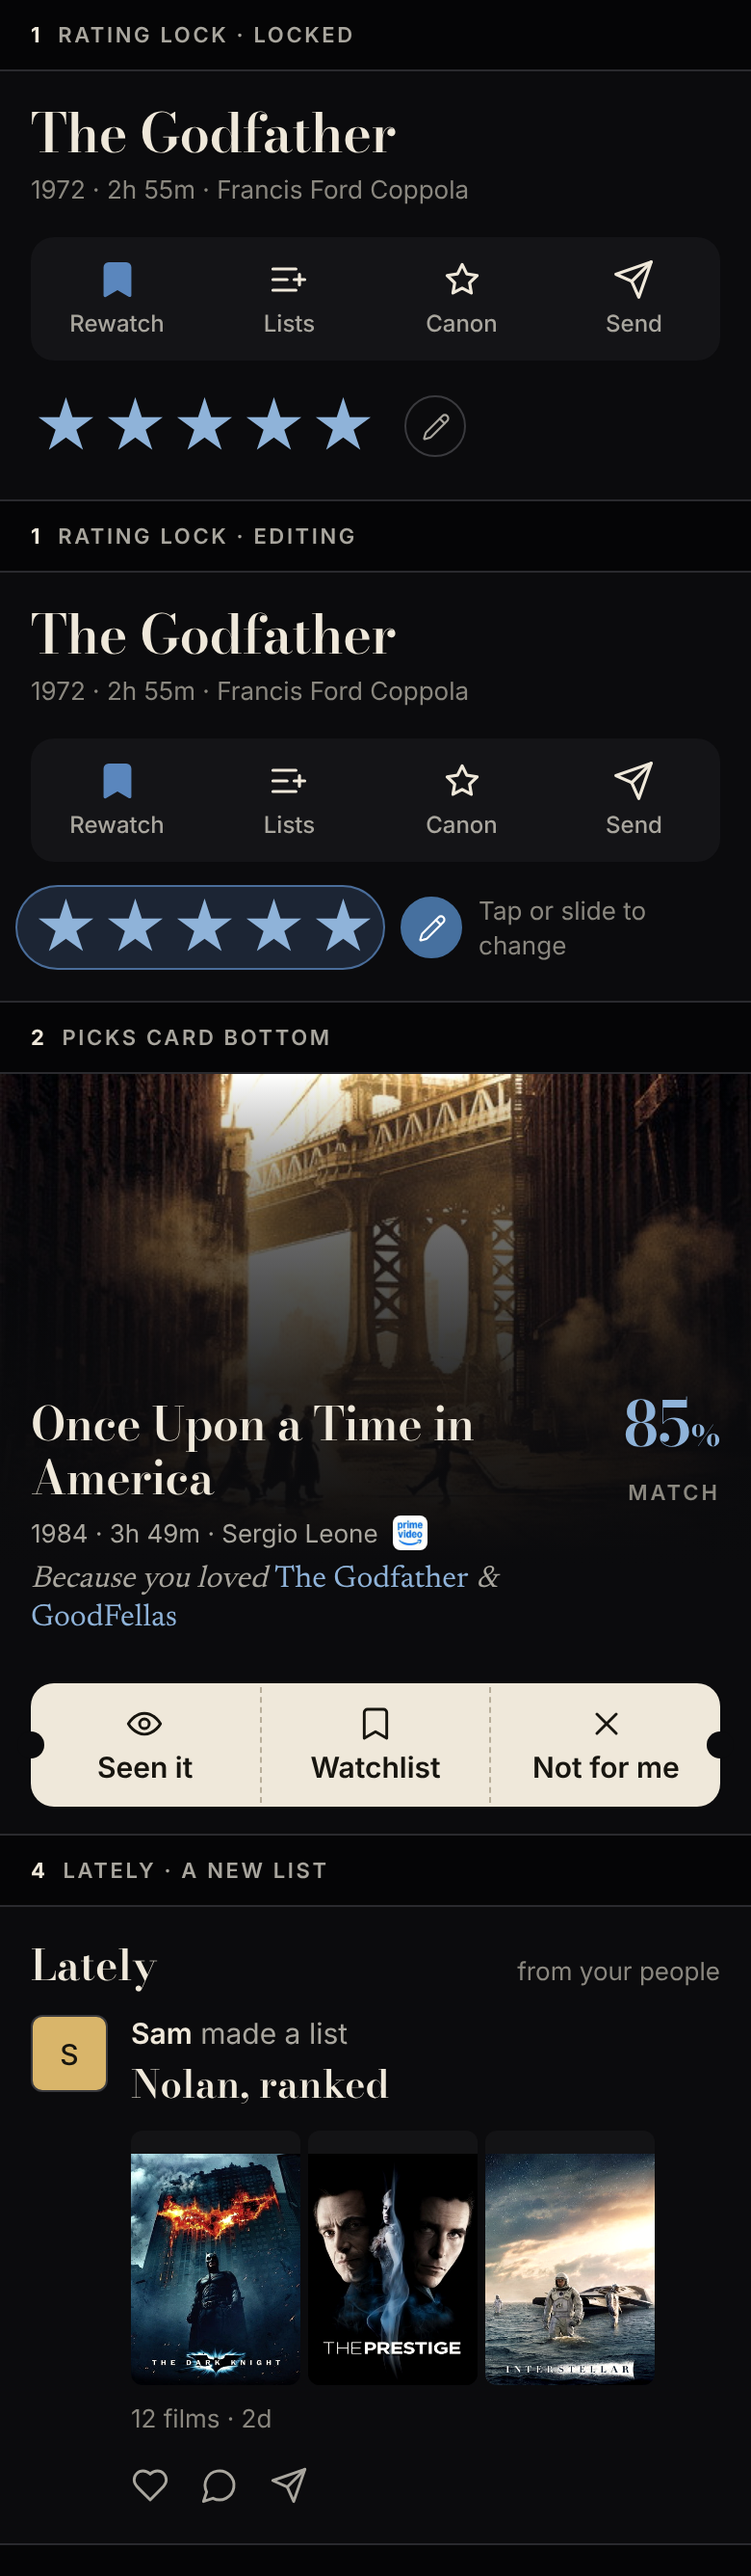
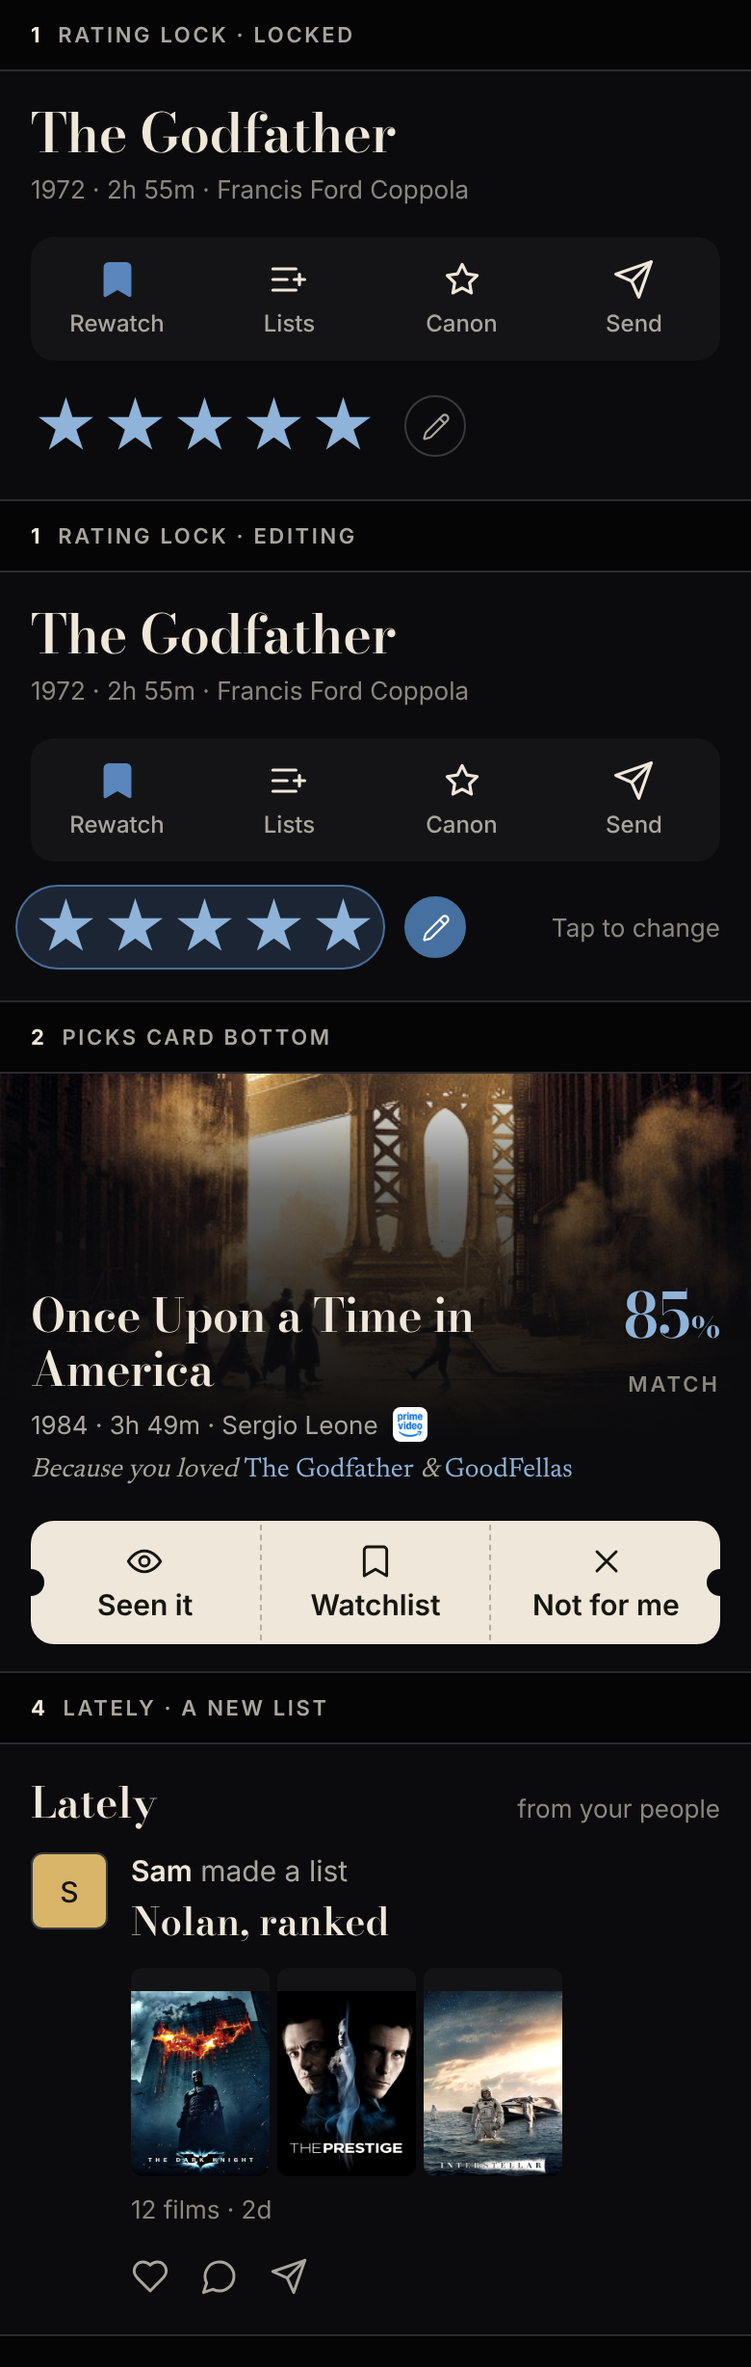
Update build 34 mocks
Claude-Session: https://claude.ai/code/session_013WRDCFXH8nihP92apJAVW7

diff --git a/mockups/journeys/b34-remaining-v1.html b/mockups/journeys/b34-remaining-v1.html
@@ -35,24 +35,24 @@ img.po { display: block; object-fit: cover; border-radius: 6px; filter: var(--gr
 .pen i { width: 32px; height: 32px; border-radius: 50%; border: 1px solid var(--line-2); display: grid; place-items: center; color: var(--muted); }
 .pen svg { width: 15px; height: 15px; }
 .pen.on i { background: var(--select-deep); border-color: var(--select-deep); color: #fff; }
-.fa-note { margin-left: auto; font: 400 13px/18px var(--ui); color: var(--faint); }
+.fa-note { margin-left: auto; white-space: nowrap; font: 400 13px/18px var(--ui); color: var(--faint); }
 
 /* 2 picks card bottom */
-.pk { padding: 0; height: 396px; }
-.pk .art { position: absolute; left: 0; top: -330px; width: 390px; height: 585px; object-fit: cover; filter: var(--grade); }
-.pk .scr { position: absolute; left: 0; right: 0; top: 0; height: 256px; background: linear-gradient(rgba(11,11,13,0), rgba(11,11,13,.6) 30%, rgba(11,11,13,.86) 62%, rgb(11,11,13)); }
-.pk .head { position: absolute; left: 16px; right: 16px; top: 168px; display: flex; gap: 16px; }
+.pk { padding: 0; height: 312px; }
+.pk .art { position: absolute; left: 0; top: -390px; width: 390px; height: 585px; object-fit: cover; filter: var(--grade); }
+.pk .scr { position: absolute; left: 0; right: 0; top: 0; height: 200px; background: linear-gradient(rgba(11,11,13,0), rgba(11,11,13,.6) 30%, rgba(11,11,13,.86) 62%, rgb(11,11,13)); }
+.pk .head { position: absolute; left: 16px; right: 16px; top: 112px; display: flex; gap: 16px; }
 .pk .t { flex: 1; min-width: 0; }
 .pk h2 { margin: 0; font: 600 24px/28px var(--serif); letter-spacing: -.01em; }
 .pk .m { margin-top: 4px; display: flex; align-items: center; gap: 8px; font: 400 13px/20px var(--ui); color: var(--muted); white-space: nowrap; }
 .pk .m img { width: 18px; height: 18px; border-radius: 4px; display: block; }
-.pk .w { margin-top: 4px; font: italic 400 16px/20px Georgia, serif; font-family: "Newsreader", "Newsreader App", Georgia, serif; color: var(--muted); }
+.pk .w { margin-top: 4px; font: italic 400 14px/20px Georgia, serif; white-space: nowrap; font-family: "Newsreader", "Newsreader App", Georgia, serif; color: var(--muted); }
 .pk .w a { font-style: normal; font-family: var(--read); color: var(--accent-2); }
 .pk .ms { flex: none; text-align: right; }
 .pk .ms .n { font: 600 32px/28px var(--serif); color: var(--accent-2); }
 .pk .ms .n small { font-size: 15px; }
 .pk .ms .l { display: block; margin-top: 8px; font: 600 11px/14px var(--ui); letter-spacing: 1.5px; color: var(--faint); }
-.stub { position: absolute; left: 16px; right: 16px; top: 316px; height: 64px; display: flex; background: var(--cream); color: var(--cream-ink); border-radius: 12px; }
+.stub { position: absolute; left: 16px; right: 16px; top: 232px; height: 64px; display: flex; background: var(--cream); color: var(--cream-ink); border-radius: 12px; }
 .stub::before, .stub::after { content: ""; position: absolute; top: 50%; width: 14px; height: 14px; margin-top: -7px; border-radius: 50%; background: var(--bg); }
 .stub::before { left: -7px; } .stub::after { right: -7px; }
 .stub .pf { width: 0; border-left: 1px dashed var(--perf); margin: 2px 0; }
@@ -67,7 +67,7 @@ img.po { display: block; object-fit: cover; border-radius: 6px; filter: var(--gr
 .lt .who { font: 400 15px/20px var(--ui); color: var(--muted); } .lt .who b { color: var(--ink); font-weight: 600; }
 .lt .ttl { margin-top: 4px; font: 600 20px/24px var(--serif); }
 .lt .pos { display: flex; gap: 4px; margin-top: 12px; }
-.lt .pos img { width: 88px; height: 132px; }
+.lt .pos img { width: 72px; height: 108px; }
 .lt .n { margin-top: 8px; font: 400 13px/18px var(--ui); color: var(--faint); }
 .lt .acts { display: flex; gap: 16px; margin-top: 12px; height: 28px; align-items: center; color: var(--muted); }
 
@@ -124,7 +124,7 @@ img.po { display: block; object-fit: cover; border-radius: 6px; filter: var(--gr
 .tk .end::before { content: ""; position: absolute; left: 4px; top: 0; bottom: 0; width: 3px; background: var(--red); }
 .tk .end::after { content: ""; position: absolute; left: 7px; top: 0; bottom: 0; width: 3px; background: var(--select); }
 .tk .end em { font-style: normal; writing-mode: vertical-rl; transform: rotate(180deg); font: 600 12px/14px var(--ui); letter-spacing: .04em; margin-left: 8px; font-variant-numeric: tabular-nums; }
-.tk .nt { position: absolute; right: 37px; width: 14px; height: 14px; border-radius: 50%; background: var(--bg); border: 1px solid var(--line-2); }
+.tk .nt { position: absolute; right: 36px; width: 14px; height: 14px; border-radius: 50%; background: var(--bg); z-index: 1; }
 .tk .nt.a { top: -8px; } .tk .nt.b { bottom: -8px; }
 .scrim { height: 56px; margin: -16px -16px 0; background: linear-gradient(#050506, rgba(5,5,6,.6)); }
 .big { position: relative; margin: 16px auto 0; width: 232px; height: 88px; display: flex; border-radius: 12px; background: var(--cream); color: var(--cream-ink); overflow: hidden; }
@@ -158,7 +158,7 @@ const L = 'lanes-more-v1-img/', T = 'tier-list-v1-img/', N = 'b34-remaining-v1-i
 const fr = (lab, html, cls = '') => `<div class="lab">${lab}</div><div class="fr ${cls}">${html}</div>`;
 const film = (live) => `<h2 class="f-title">The Godfather</h2><div class="f-facts">1972 · 2h 55m · Francis Ford Coppola</div>
   <div class="fa-row"><div class="fa-act on">${I('bm')}Rewatch</div><div class="fa-act">${I('list')}Lists</div><div class="fa-act">${I('star')}Canon</div><div class="fa-act">${I('send')}Send</div></div>
-  <div class="fa-rate"><div class="stars${live ? ' live' : ''}">${'<span>★</span>'.repeat(5)}</div><div class="pen${live ? ' on' : ''}"><i>${I('pencil')}</i></div>${live ? '<span class="fa-note">Tap or slide to change</span>' : ''}</div>`;
+  <div class="fa-rate"><div class="stars${live ? ' live' : ''}">${'<span>★</span>'.repeat(5)}</div><div class="pen${live ? ' on' : ''}"><i>${I('pencil')}</i></div>${live ? '<span class="fa-note">Tap to change</span>' : ''}</div>`;
 const tk = (end) => `<div class="tk"><div class="st"><div><b>12</b><span>films ${I('chev')}</span></div><div><b>0</b><span>followers ${I('chev')}</span></div><div><b>0</b><span>following ${I('chev')}</span></div></div><i class="nt a"></i><i class="nt b"></i><div class="end"><em>${end}</em></div></div>`;
 const s1 = [
   fr('<b>1</b> Rating lock · locked', film(false)),
@@ -183,9 +183,9 @@ const s2 = [
   fr('<b>5</b> Made for you · A backdrop card', `${cap}<div class="row">
     <div class="bdc"><img src="${N}bd-godfather.jpg"><div class="g"></div><div class="ins"><img src="${L}godfather.jpg"><img src="${L}goodfellas.jpg"><img src="${L}departed.jpg"></div><div class="tx"><b>Because you like organized crime families</b><span>8 films</span></div></div>
     <div class="bdc"><img src="${N}bd-goodfellas.jpg"><div class="g"></div><div class="tx"><b>Slow burns</b><span>12 films</span></div></div></div>`),
-  fr('<b>5</b> Made for you · B poster strip, title on 2 lines', `${cap}<div class="row">
+  fr('<b>5</b> Made for you · B poster strip, 2 lines', `${cap}<div class="row">
     <div class="mfy"><div class="ps"><img class="po" src="${L}godfather.jpg"><img class="po" src="${L}goodfellas.jpg"><img class="po" src="${L}departed.jpg"></div><b>Because you like organized crime families</b><span>8 films</span></div>
-    <div class="mfy"><div class="ps"><img class="po" src="${L}heat.jpg"><img class="po" src="${T}insomnia.jpg"><img class="po" src="${T}memento.jpg"></div><b>Slow burns</b><span>12 films</span></div></div>`),
+    <div class="mfy"><div class="ps"><img class="po" src="picks-immersive-v1-img/po-heat.jpg"><img class="po" src="${T}insomnia.jpg"><img class="po" src="${T}memento.jpg"></div><b>Slow burns</b><span>12 films</span></div></div>`),
 ];
 const drawer = (h, p, big, btns) => `<div class="scrim"></div><div class="dr" style="margin-top:0"><div class="grab"></div><h3>${h}</h3><p>${p}</p>${big}${btns}</div>`;
 const big = (n, lock) => `<div class="big"><div><small>Member</small><b>${n}</b></div><i>${lock ? I('lock') : I('star')}</i></div>`;
